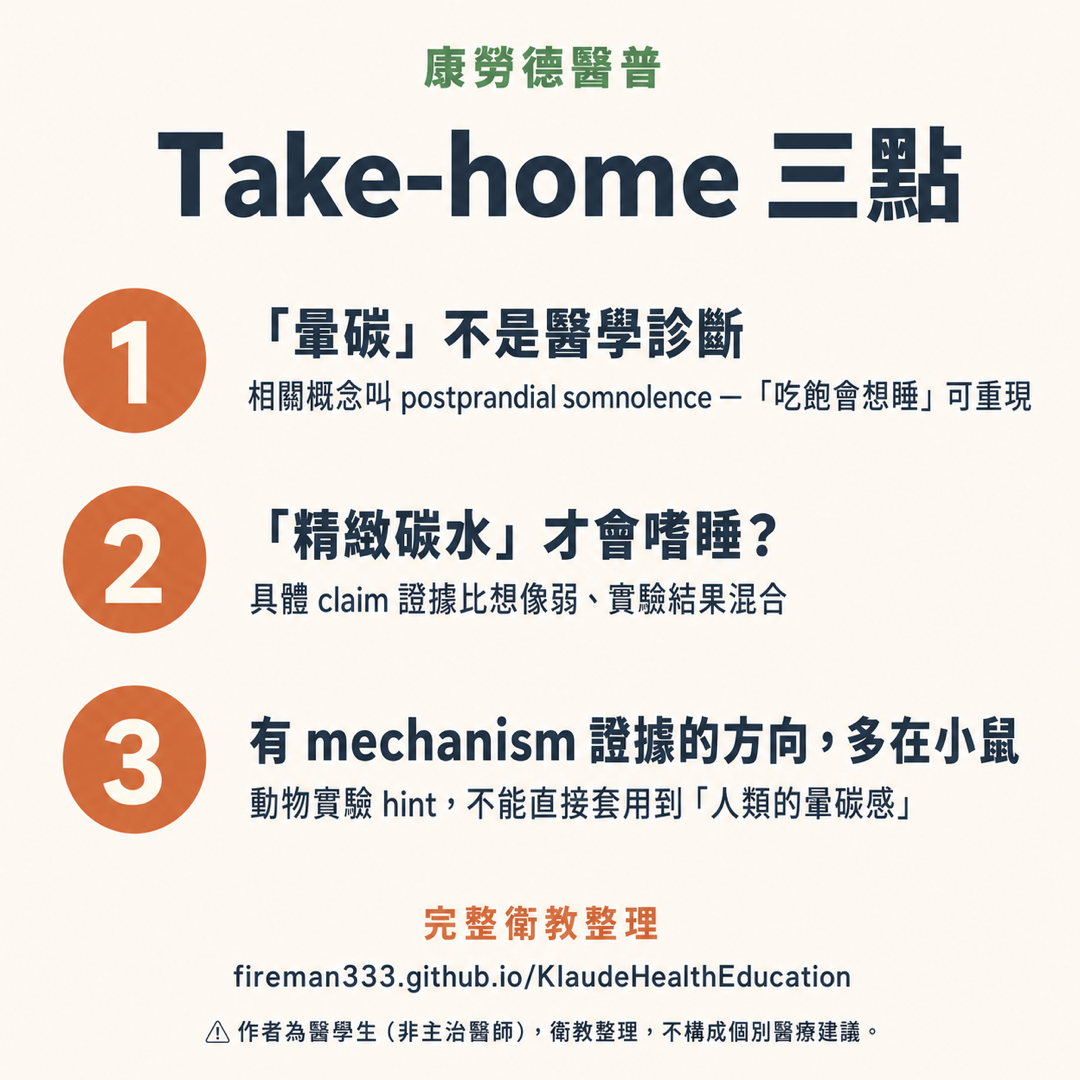
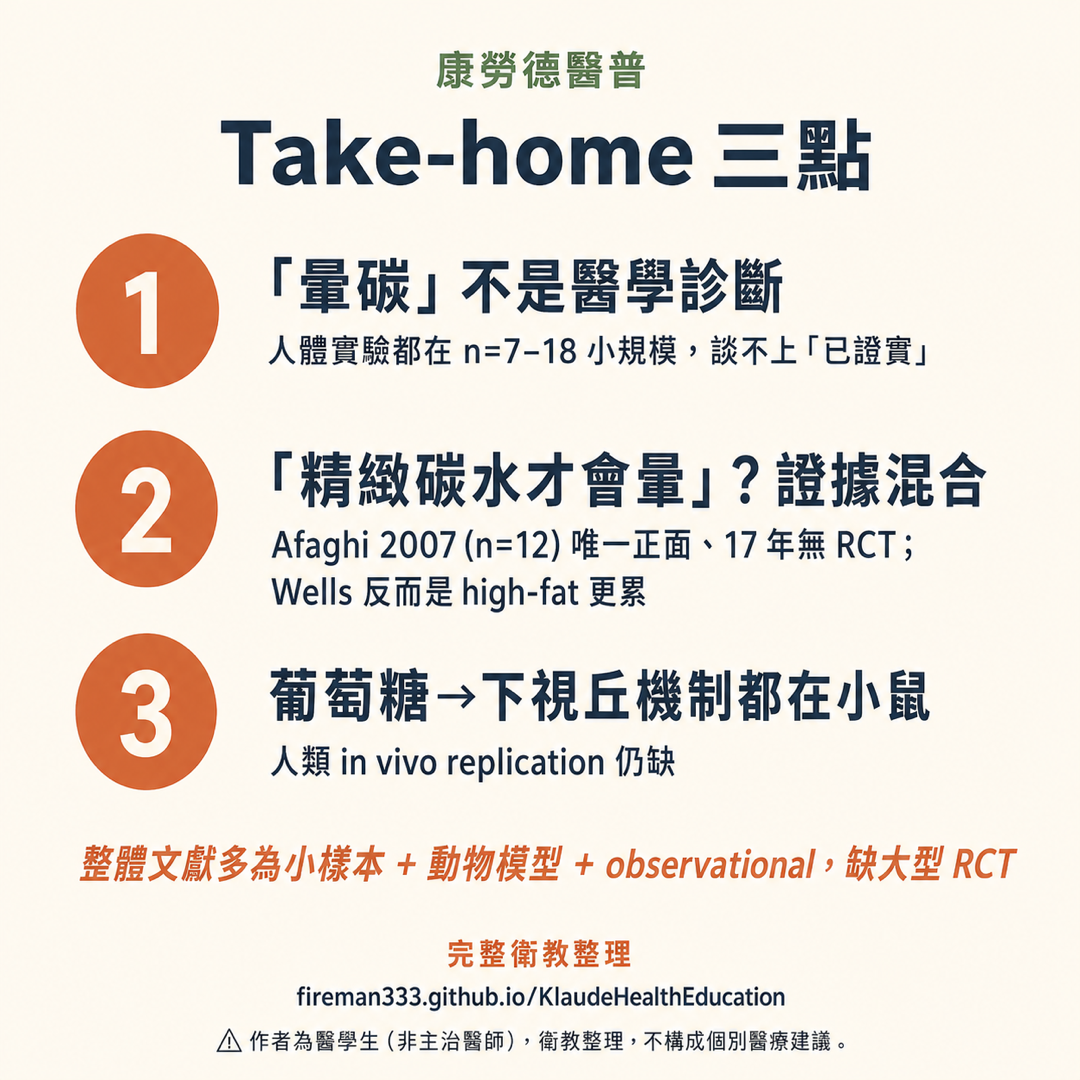
fix(post): 重生 slide 04 對齊 v2 take-home evidence-quality 措辭
slide v1 寫「相關概念叫 postprandial somnolence、研究上量得到吃飽會想睡」
slide v2 寫「人體實驗都 n=7-18 小規模、談不上已證實」+ 收尾 emphasis
「整體文獻多為小樣本 + 動物模型 + observational，缺大型 RCT」
frontmatter carousel[3] alt + threads_text 同步更新

Changed region(s): [[0.0611, 0.0306, 0.9472, 0.9778]]

diff --git a/src/content/posts/2026-05-12-postprandial-somnolence-carb-coma.md b/src/content/posts/2026-05-12-postprandial-somnolence-carb-coma.md
@@ -18,9 +18,9 @@ carousel:
     caption: "Slide 3 — 網路機制 vs 主流文獻"
     threads_text: "網路三套熱門機制，主流文獻怎麼說？\n1. 血液跑去消化道、腦缺血 → 2004 Medical Hypotheses 直接駁斥，腦血流會優先維持\n2. 反應性低血糖造成嗜睡 → Spring 1989 量過、fatigue 開始時血糖還高、時間軸對不上\n3. 色胺酸→血清素→褪黑 → 比例的確會變，但跟 daytime 嗜睡的人體因果鏈 inconsistent\n比較有機制證據的方向（葡萄糖直接影響下視丘 sleep/wake 神經元）目前多是小鼠實驗。"
   - src: "/img/posts/2026-05-12-postprandial-somnolence-carb-coma/04-takeaway.png"
-    alt: "Take-home 三點：(1) 暈碳不是診斷、PPS 是相關概念 (2) 精緻碳水 claim 證據比想像弱 (3) 動物實驗有 hint 但 bedside 證據仍不足"
-    caption: "Slide 4 — Take-home"
-    threads_text: "Take-home：\n1. 「暈碳」不是醫學診斷；相關概念叫 postprandial somnolence，研究上確實量得到「吃飽會想睡」\n2. 但「精緻碳水比其他食物更容易引發嗜睡」這個具體 claim，目前實驗結果混合、effect 比網路說的小\n3. 比較有 mechanism 證據的方向（葡萄糖直接影響下視丘）目前多在動物實驗，不能直接套用到「人類的暈碳感」\n\n完整衛教整理 → fireman333.github.io/KlaudeHealthEducation/posts/2026-05-12-postprandial-somnolence-carb-coma/\n\n#康勞德醫普 #飯後嗜睡 #升糖指數 #營養\n\n⚠ 作者為醫學生（非主治醫師），衛教整理，不構成個別醫療建議。"
+    alt: "Take-home 三點：(1)「暈碳」不是醫學診斷 — 人體實驗都 n=7–18 小規模、談不上已證實 (2)「精緻碳水才會暈」？證據混合 — Afaghi 2007 (n=12) 唯一正面、17 年無 RCT；Wells 反而 high-fat 更累 (3) 葡萄糖→下視丘機制都在小鼠 — 人類 in vivo replication 仍缺；整體文獻多為小樣本 + 動物模型 + observational、缺大型 RCT"
+    caption: "Slide 4 — Take-home (v2)"
+    threads_text: "Take-home：\n1. 「暈碳」不是醫學診斷 — 人體實驗都 n=7–18 小規模，談不上「已證實」\n2. 「精緻碳水才會暈」？證據混合 — Afaghi 2007 (n=12) 唯一正面、17 年無 RCT；Wells 1997 (n=18) 反而是 high-fat 比 high-carb 更累，對「精緻碳水才會暈」是反例\n3. 葡萄糖→下視丘機制都在小鼠模型 — 人類 in vivo replication 仍缺\n\n整體文獻多為小樣本 + 動物模型 + observational，缺大型 RCT。\n\n完整衛教整理 → fireman333.github.io/KlaudeHealthEducation/posts/2026-05-12-postprandial-somnolence-carb-coma/\n\n#康勞德醫普 #飯後嗜睡 #升糖指數 #營養\n\n⚠ 作者為醫學生（非主治醫師），衛教整理，不構成個別醫療建議。"
 sources:
   - title: "衛生福利部「食物 GI 知多少 吃出健康少煩惱！」"
     url: "https://www.mohw.gov.tw/cp-16-26527-1.html"
